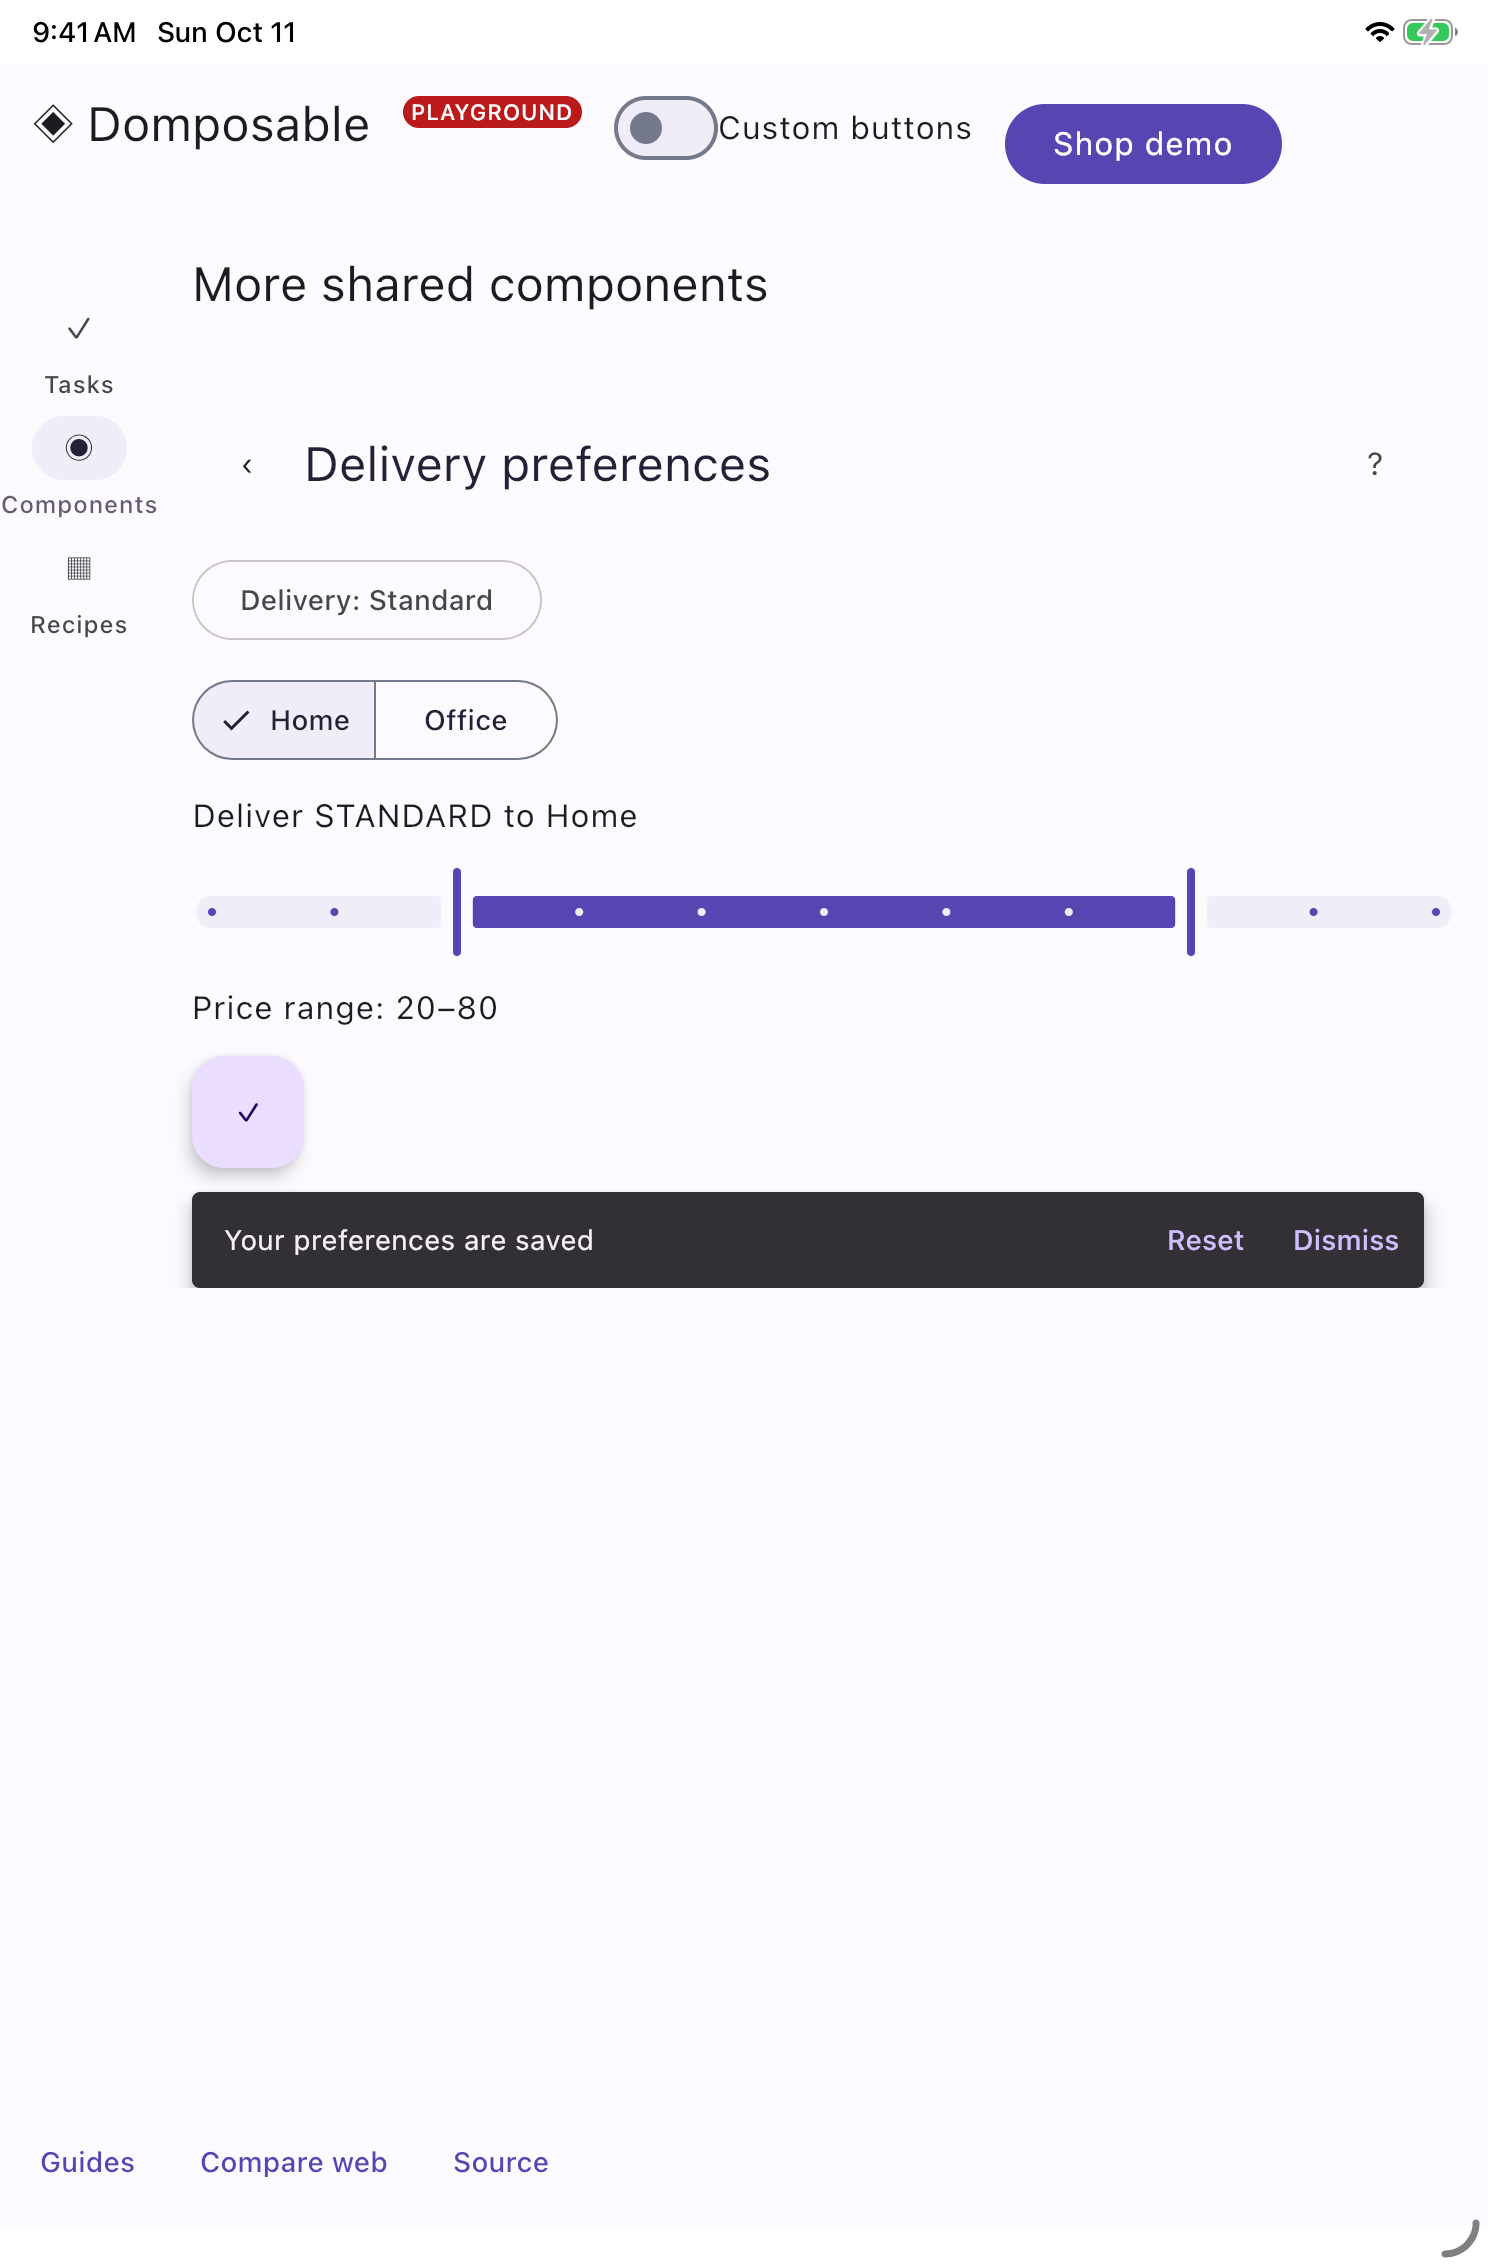
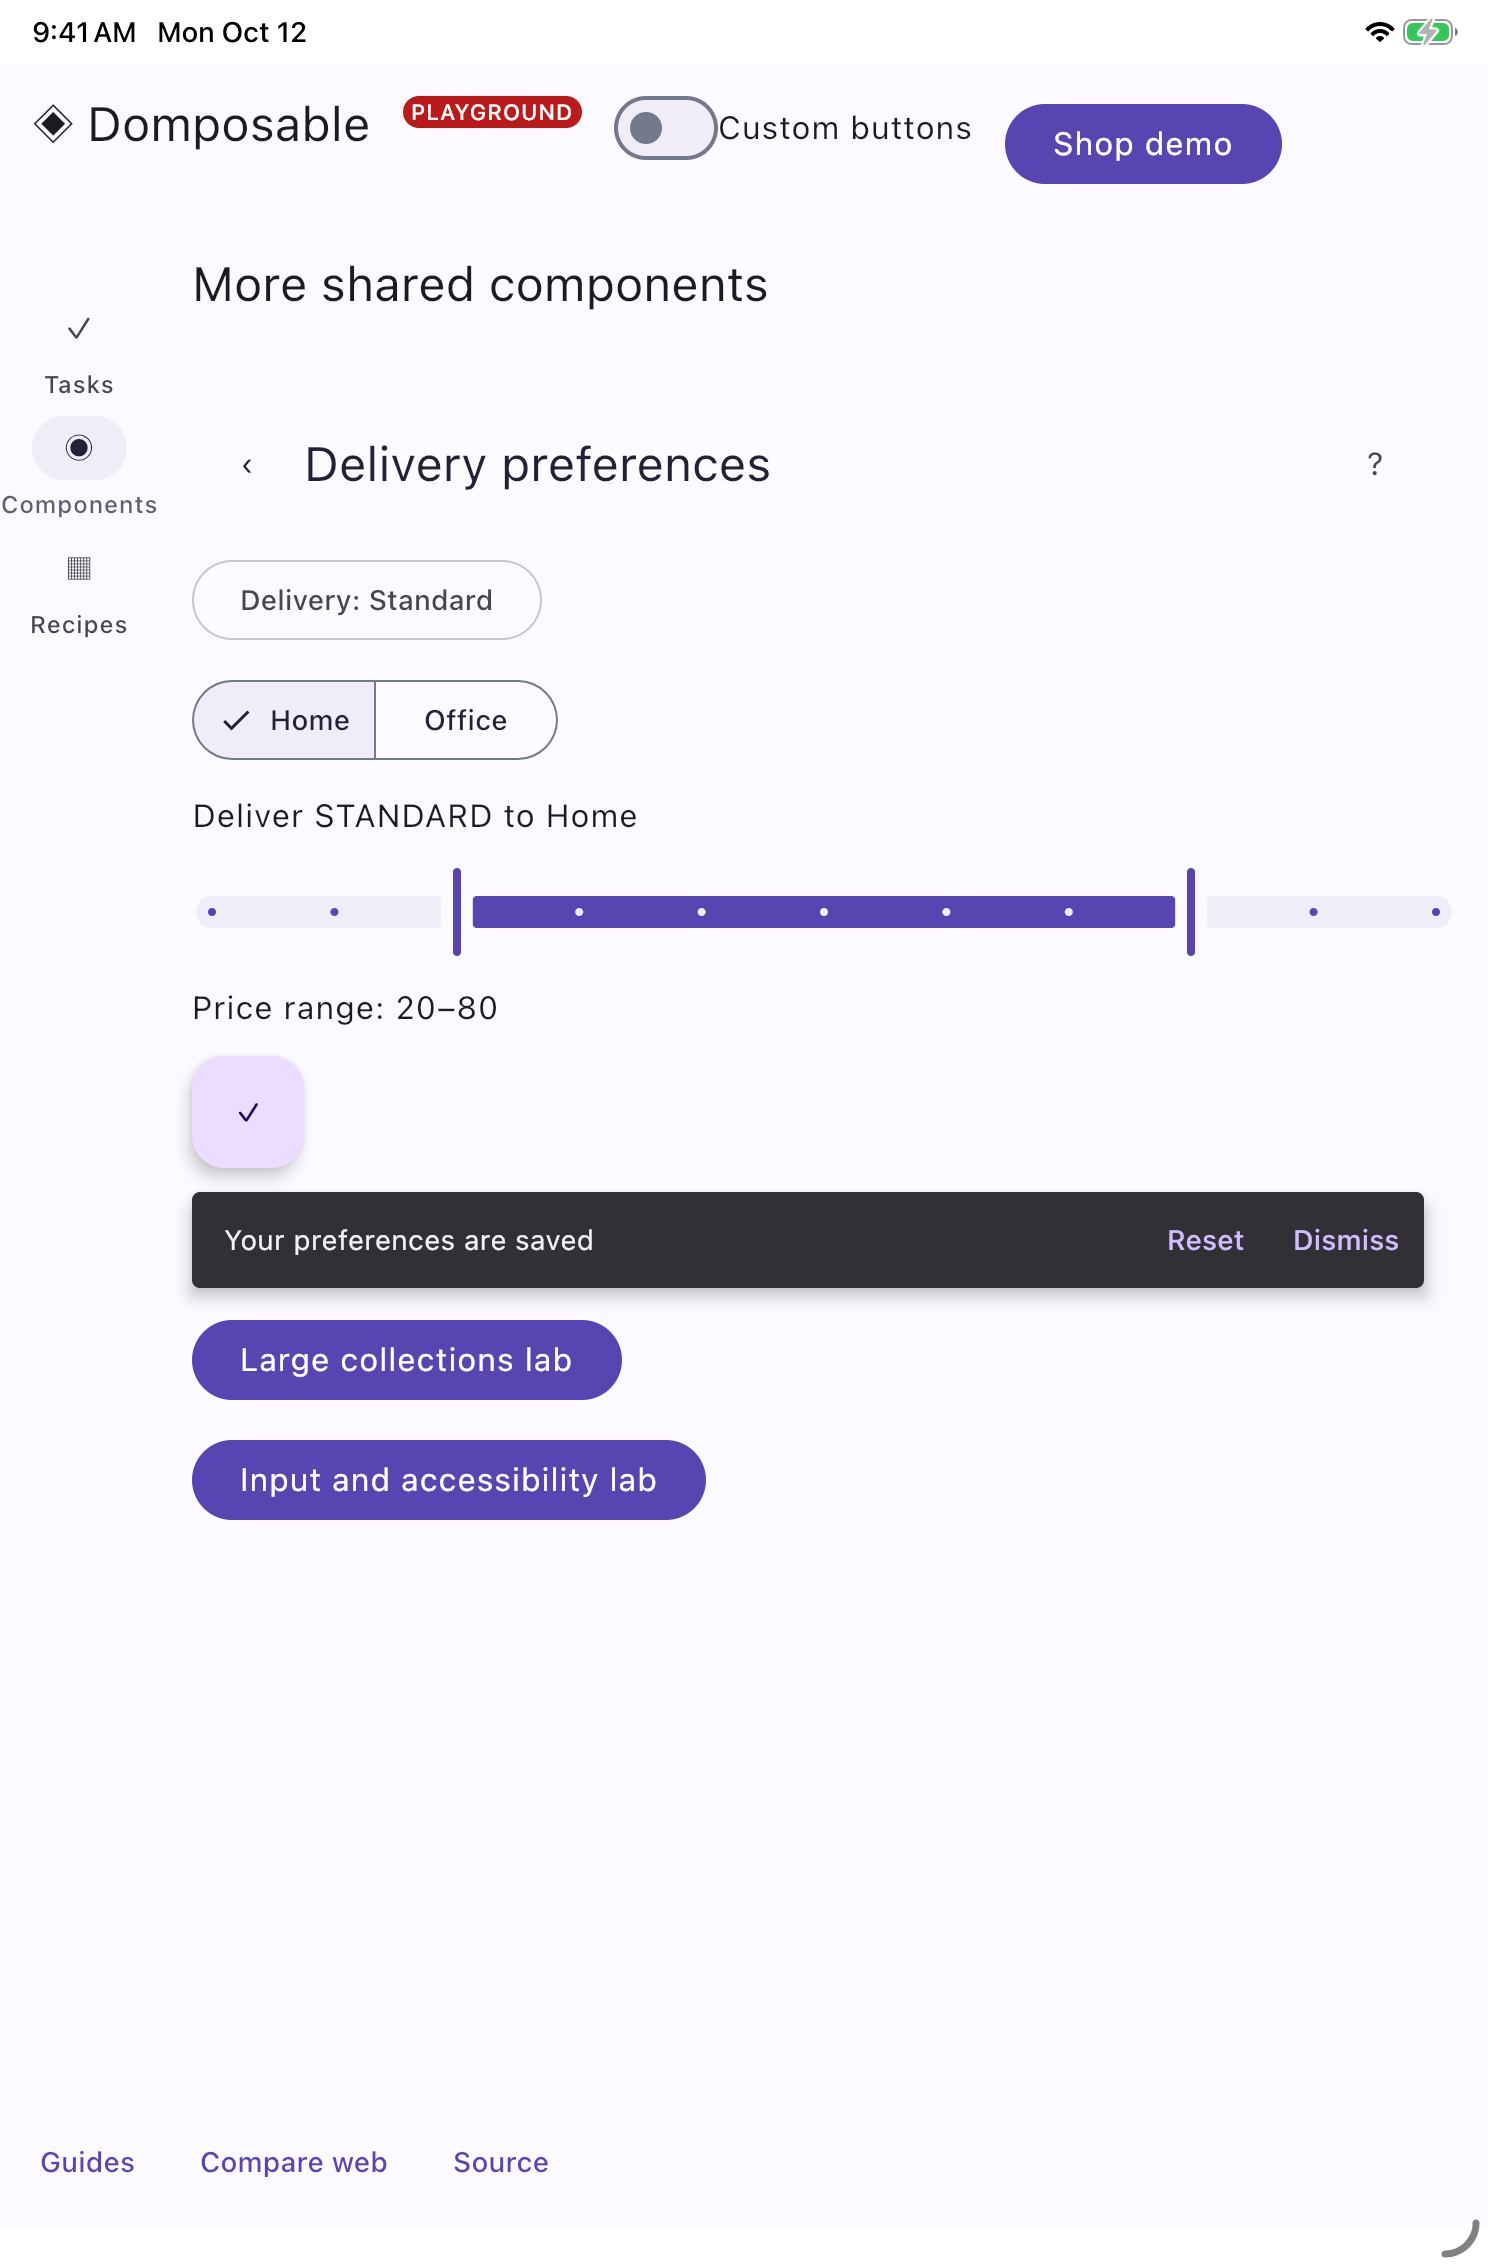
Use the observed iOS selector label and reviewed gallery inputs

Changed region(s): [[0.1237, 0.556, 0.9583, 0.6796], [0.1237, 0.0, 0.2164, 0.0309]]

diff --git a/iosApp/DomposableDemoUITests/SmokeTests.swift b/iosApp/DomposableDemoUITests/SmokeTests.swift
@@ -130,10 +130,9 @@ final class SmokeTests: XCTestCase {
         tapVisible(app, "More collection recipes")
         ready(app, "Collection recipes")
         capture(app, "collection-measured")
-        var current = "Measured column"
         for (layout, name) in [("Horizontal row", "collection-row"), ("Responsive grid", "collection-grid"), ("Semantic table", "collection-table")] {
             // Return to the selector before changing layout; no keyboard is open during goldens.
-            let selector = app.buttons["Collection layout: \(current)"]
+            let selector = app.buttons.matching(NSPredicate(format: "label BEGINSWITH %@", "Collection layout,")).firstMatch
             for _ in 0..<6 {
                 if selector.exists && selector.isHittable { break }
                 app.swipeDown()
@@ -143,9 +142,8 @@ final class SmokeTests: XCTestCase {
             let option = app.descendants(matching: .any).matching(NSPredicate(format: "label == %@", layout)).firstMatch
             XCTAssertTrue(option.waitForExistence(timeout: 10))
             option.tap()
-            ready(app, "Collection layout: \(layout)")
+            ready(app, "Collection layout, Collection layout: \(layout)")
             capture(app, name)
-            current = layout
         }
         ready(app, "Inventory drafts")
         let draft = app.descendants(matching: .any).matching(NSPredicate(format: "label == %@", "Item 1 draft")).firstMatch
